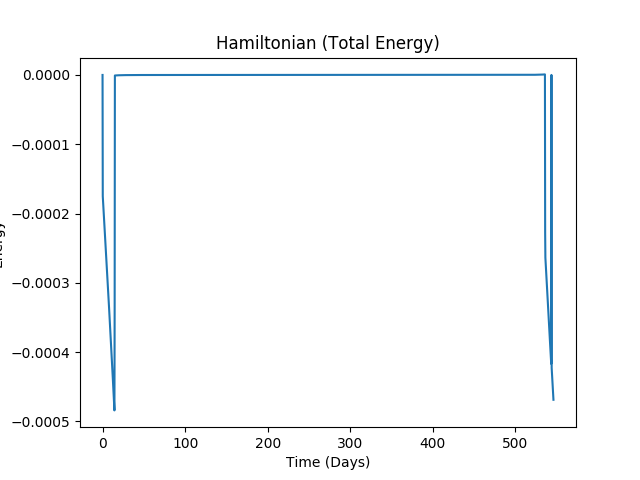
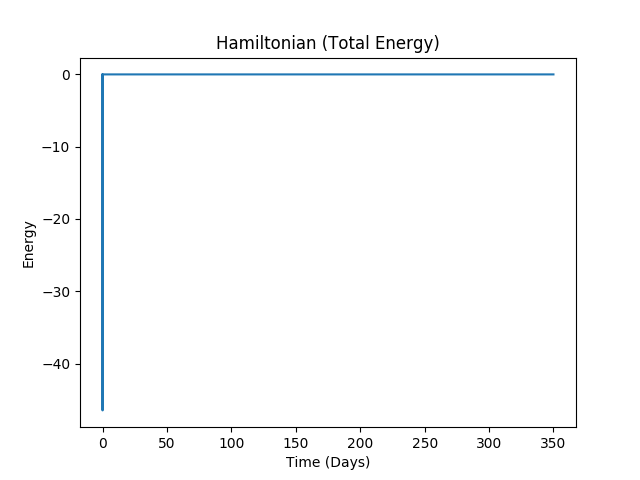
Finally have primary switching working properly.

diff --git a/PythonCode/Main_KS.py b/PythonCode/Main_KS.py
@@ -1,51 +1,51 @@
 import numpy as np
 import math
 import matplotlib.pyplot as plt
-## import orbital.elements
-#import time
 import datetime
 
+from Constants import *
 from rkf45 import *
 from Dynamics import dynamics, hamiltonian
-from Dynamics_KS import dynamics_ks, ks_init, ks2cart
+from Dynamics_KS import dynamics_ks, ks_init, ks2cart, setUnits, inSoI
 
 print("Started: " + datetime.datetime.now().strftime("%H:%M:%S.%f"))
 
-# Physical Constants
-mu_e = 3.986e14 # m^3/s^2, Earth's gravitational parameter
-mu_s = 1.327e20 # m^3/s^2, Sol's gravitational parameter
-R_e = 6378137 # m, Earth's equatorial radius
-m_e = 5.97237e24# kg, Earth's mass
-m_sc = 1000 # kg, Spacecraft's mass
-smaEarth = 1.49598023e11 # m, Earth's semimajor axis
+# Initial Conditions
+r_e0 = np.array([smaEarth, 0, 0]) # km, Earth's average orbital
+# distance, along the vernal
+                                   # equinox
+v_e0 = np.array([0, smaEarth*wEarth, 0]) # km/s, Earth's average orbital velocity
+                             # in the y inertial direction
 
-# Unit scaling here as well.
-mu_e = mu_e/(R_e**3)
-mu_s = mu_s/(R_e**3)
-smaEarth = smaEarth/R_e
-wEarth = math.sqrt((mu_e + mu_s)/(smaEarth**3))
-R_SoI = (mu_e/mu_s)**(2.0/5.0)*smaEarth
+r_sc0 = r_e0 + np.array([6.5e3, 0, 0]) # km, Spacecraft's initial
+                                       # position added to Earth's
+v_sc0 = v_e0 + np.array([1, 4.0, 0]) # km/s, Spacecraft's initial
+                                       # velocity added to Earth's
+
+# Unit Conversion
+DU = np.linalg.norm(r_sc0)
+TU = math.sqrt(mu_e/(DU**3))
+setUnits(DU, TU)
 
 # Simulation Conditions
 debug = False
-secondsPerDay = 3600*24
 
 if debug:
-    ## This is an approximation to the fictitious time (rather than
-    ## add the expense of an event function
     simLength = 400*secondsPerDay
-    simLength = simLength/smaEarth
-    dt = 10.5
+    dt = 900
+    simLength = simLength/DU
+    dt = dt/DU
 else:
-    simLength = 546*secondsPerDay
-    simLength = simLength/smaEarth
-    dt = 1
+    simLength = 350*secondsPerDay
+    dt = 300
+    simLength = simLength/DU
+    dt = dt/DU
     
 N= int(math.floor(simLength/dt))
 simTime = np.linspace(0,simLength, N)
 flag = 1
 relerr = 1e-8
-abserr = 1e-3
+abserr = 1e-6
 
 # Sim output storage
 y_out = np.zeros((N,10))
@@ -53,54 +53,27 @@ x_out = np.zeros((N,3))
 e_out = np.zeros((N,3))
 H_out = np.zeros((N,))
 
-print(smaEarth*wEarth*R_e)
-# Initial Conditions
-r_e0 = np.array([1.4960e11, 0, 0]) # m, Earth's average orbital
-                                   # distance, along the vernal
-                                   # equinox
-v_e0 = np.array([0, 3e4, 0]) # m/s, Earth's average orbital velocity
-                             # in the y inertial direction
-
-r_sc0 = r_e0 + np.array([6.7e6, 0, 0]) # m, Spacecraft's initial
-                                       # position added to Earth's
-v_sc0 = v_e0 + np.array([-1e3, 7.0e3, 0]) # m/s, Spacecraft's initial
-                                       # velocity added to Earth's
-
-# Unit Conversion
-# Meters was a very clearly poor choice for distance units
-# Transform instead to units of Earth Equatorial Radius
-# This is a compromise between S/C and Earth dynamics
-r_e0 = r_e0/R_e
-v_e0 = v_e0/R_e
-r_sc0 = r_sc0/R_e
-v_sc0 = v_sc0/R_e
-print(v_sc0)
+r_sc0 = r_sc0/DU
+v_sc0 = v_sc0/(DU*TU)
 
 x_out[0,:] = r_sc0
-e_out[0,:] = smaEarth*np.array([1,0,0])
+e_out[0,:] = (smaEarth/DU)*np.array([1,0,0])
 
 u0 = ks_init(r_sc0, v_sc0, 0, mu_s, 0)
 
-# Thus we have a 10x1 initial state vector
-y0 = np.append(r_e0, v_e0)
-y0 = np.append(y0, r_sc0)
-y0 = np.append(y0, v_sc0)
-
-#u0 = np.append(u0, e_out[0,:])
 y_out[0,:] = u0
 yp = np.zeros((10,))
 Hrel = np.zeros((N,))
 
 for i,x in enumerate(simTime):
     if i==0:
-        print("Initializing Done.")
         H_out[i] = u0[8]
         Hrel[i] = 0
     else:
         y = np.reshape(y_out[i-1,:],(10,))
         t0 = simTime[i-1]
-
-        y, yp, t, flag = r8_rkf45( dynamics_ks, 10, y, yp, t0, x, relerr, abserr, flag)
+        y, yp, t, flag = r8_rkf45( dynamics_ks, 10,
+                                   y, yp, t0, x, relerr, abserr, flag)
         y_out[i,:] = y
         H_out[i] = y[8]
         Hrel[i] = (H_out[i] - H_out[i-1])/H_out[i]
@@ -111,8 +84,44 @@ for i,x in enumerate(simTime):
         p, pdot = ks2cart(y)
         x_out[i,:] = p
         t = y[9]*np.linalg.norm(y[0:4])
-        lonEarth = wEarth*t
-        e_out[i,:] = smaEarth*np.array([math.cos(lonEarth), math.sin(lonEarth), 0])
+        lonEarth = wEarth*t/TU
+        e_out[i,:] = (smaEarth/DU)*np.array([math.cos(lonEarth),
+                                             math.sin(lonEarth), 0])
+        ve = (smaEarth/(DU*TU))*wEarth*np.array([-math.sin(lonEarth),
+                                            math.cos(lonEarth), 0])
+
+        #print(np.linalg.norm(ve))
+        
+        if not inSoI:
+            r_sc_e = p - e_out[i,:]
+        else:
+            r_sc_e = p
+        
+        if np.linalg.norm(r_sc_e) <= R_SoI/DU:
+            # We're in Earth's SoI
+            if not inSoI:
+                print("Capturing")
+                inSoI = True
+                r_sc = r_sc_e
+                print(np.linalg.norm(r_sc))
+                v_sc = pdot - ve
+                y = ks_init(r_sc, v_sc, y[9], mu_e, 0)
+                y_out[i, :] = y
+                p, pdot = ks2cart(y)
+                yp = dynamics_ks(x, y)
+
+            x_out[i, :] = p + e_out[i, :]
+        else:
+            # We're outside of it, back to heliocentric
+            if inSoI:
+                print("Releasing")
+                inSoI = False
+                r_sc = p + e_out[i, :]
+                print(np.linalg.norm(r_sc))
+                v_sc = pdot + ve
+                y = ks_init(r_sc, v_sc, y[9], mu_s, 0)
+                yp = dynamics_ks(x, y)
+                y_out[i, :] = y
 
 print("Finished: " + datetime.datetime.now().strftime("%H:%M:%S.%f"))
 
@@ -120,7 +129,7 @@ fig, ax = plt.subplots()
 ax.plot(e_out[:,0], e_out[:,1])
 ax.plot(x_out[:,0], x_out[:,1])
 ax.plot([0.0],[0.0],'r+')
-ax.set(xlabel='X - Earth Radii',ylabel='Y - Earth Radii',
+ax.set(xlabel='X - AU',ylabel='Y - AU',
        title='Planar Motion of Two Bodies')
 ax.legend(['Earth','Spacecraft','Sol'])
 fig.savefig('PlanarPath.png')

diff --git a/PythonCode/Dynamics_KS.py b/PythonCode/Dynamics_KS.py
@@ -1,25 +1,26 @@
 import numpy as np
 import math
 
-mu_e = 3.986e14 # m^3/s^2, Earth's gravitational parameter
-mu_s = 1.327e20 # m^3/s^2, Sol's gravitational parameter
-R_e = 6378137 # m, Earth's equatorial radius
-m_e = 5.97237e24# kg, Earth's mass
-m_sc = 1000 # kg, Spacecraft's mass
-smaEarth = 1.49598023e11 # m, Earth's semimajor axis
+from Constants import *
 
-# Unit scaling here as well.
-mu_e = mu_e/(R_e**3)
-mu_s = mu_s/(R_e**3)
-smaEarth = smaEarth/R_e
-wEarth = math.sqrt((mu_e + mu_s)/(smaEarth**3))
-R_SoI = 50*(mu_e/mu_s)**(2.0/5.0)*smaEarth
+DU = 1.0
+TU = 1.0
+inSoI = False
+def setUnits(d, t):
+    global DU, TU
 
+    DU = d
+    TU = t
+    
 def dynamics_ks(t, y):
+    global inSoI
     # State Vector
     # u[0:4] -> u1-u4, KS-position
     # u[4:8] -> u1'-u4', KS-velocity
-    # u[8]   -> h (-total energy) = (-Keplerian energy) + (-potential)
+    
+    ## u[8] -> h (-total energy) = (-Keplerian energy)
+    ## + (-potential)
+
     # u[9]   -> t, physical time
 
     # Initialize the output
@@ -27,33 +28,32 @@ def dynamics_ks(t, y):
     
     # Radius of position and time
     x, xdot = ks2cart(y)
-    # print(x)
-    # print(xdot)
     r = np.linalg.norm(y[0:4])
     t = y[9]
 
     # Perturbing potential
     rVpot = 0.0
     drVdu = 0.0
-    lonEarth = wEarth*t
+    lonEarth = wEarth*t/TU
     
     # Perturbing Accelerations
     P = np.zeros((4,))
-    rEarth = (smaEarth)*np.array([math.cos(lonEarth), math.sin(lonEarth), 0])
+    rEarth = (smaEarth/DU)*np.array([math.cos(lonEarth),
+                                     math.sin(lonEarth), 0])
     r_sc_e = np.linalg.norm(rEarth - (x))
 
-    if r_sc_e <= R_SoI:
-        inSoI = True
-    else:
-        inSoI = False
-    
+    muFactor = 1/((TU**2)*(DU**3))
     if inSoI:
         # Third body is the sun
-        r2 = -(smaEarth)*np.array([math.cos(lonEarth), math.sin(lonEarth), 0])
-        P[0:3] = accel3B(x, r2, mu_e, mu_s)
+        ## print("Third body is the sun")
+        r2 = -(smaEarth/DU)*np.array([math.cos(lonEarth),
+                                      math.sin(lonEarth), 0])
+        P[0:3] = accel3B(x, r2, mu_e*muFactor, mu_s*muFactor)
     else:
-        r2 = (smaEarth)*np.array([math.cos(lonEarth), math.sin(lonEarth), 0])
-        P[0:3] = accel3B(x, r2, mu_s, mu_e)
+        ## print("Third body is the Earth")
+        r2 = (smaEarth/DU)*np.array([math.cos(lonEarth),
+                                     math.sin(lonEarth), 0])
+        P[0:3] = accel3B(x, r2, mu_s*muFactor, mu_e*muFactor)
 
     L = ksmat(y)
 
@@ -68,45 +68,13 @@ def dynamics_ks(t, y):
     y_dot[8] = -2*np.dot(y[4:8], np.dot(np.transpose(L),P))
     y_dot[9] = r
 
-    # vEarth = (smaEarth*wEarth)*np.array([-math.sin(lonEarth), math.cos(lonEarth), 0])
-    # y_dot[10:13] = vEarth
-
     return y_dot
-
-def hamiltonian(y):
-    # This function calculates the value of the Hamiltonian of the
-    # system at a given state.
-
-    # Preliminaries
-    r_e = y[0:3]
-    r_sc = y[6:9]
-    v_e = y[3:6]
-    v_sc = y[9:12]
-    r_sc_e = r_sc - r_e
-    
-    r_sc_mag = np.linalg.norm(r_sc)
-    r_sc_e_mag = np.linalg.norm(r_sc_e)
-    r_e_mag = np.linalg.norm(r_e)
-    v_e_mag = np.linalg.norm(v_e)
-    v_sc_mag = np.linalg.norm(v_sc)
-    #v_sc_e_mag = np.linalg.norm(v_sc_e)
-
-    T_e = (m_e/2.0)*(v_e_mag**2)
-    T_sc = (m_sc/2.0)*(v_sc_mag**2)
-
-    U_e = -mu_s*m_e/r_e_mag
-    U_sc = -mu_s*m_sc/r_sc_mag
-    U_sc_e = -mu_e*m_sc/r_sc_e_mag
-
-    hamiltonian = T_e + T_sc + U_e + U_sc + U_sc_e
-
-    return hamiltonian
 
 def accel3B(r3, r2, mu1, mu2):
     r23 = (r3 - r2)
     r2N = np.linalg.norm(r2)
     r23N = np.linalg.norm(r23)
-    accel = -(mu2)*((r23/(r23N**3)))
+    accel = -(mu2/mu1)*((r23/(r23N**3)) + (r2/(r2N**3)))
 
     return accel
 
@@ -125,7 +93,7 @@ def ks2cart(u):
     x[0] = u[0]**2 - u[1]**2 - u[2]**2 + u[3]**2
     x[1] = 2*(u[0]*u[1] - u[2]*u[3])
     x[2] = 2*(u[0]*u[2] + u[1]*u[3])
-    r = np.linalg.norm(u[0:4])
+    r = np.linalg.norm(u[0:4])**2
 
     xdot[0] = 2*(u[0]*u[4] - u[1]*u[5] - u[2]*u[6] + u[3]*u[7])/r
     xdot[1] = 2*(u[1]*u[4] + u[0]*u[5] - u[3]*u[6] - u[2]*u[7])/r
@@ -137,7 +105,7 @@ def ks_init(r0, v0, t0, mu, V):
     u0 = np.zeros((10,))
 
     r = np.linalg.norm(r0)
-    Ksq = mu
+    Ksq = mu/((DU**3)*(TU**2))
 
     if r0[0] >= 0.0:
         u0[0] = 0.0

diff --git a/PythonCode/Constants.py b/PythonCode/Constants.py
@@ -1,0 +1,10 @@
+import math
+
+# Physical Constants
+mu_e = 3.98601e5 # km^3/s^2, Earth's gravitational parameter
+mu_s = 1.32712428e11 # km^3/s^2, Sol's gravitational parameter
+R_e = 6.37122E3 # km, Earth's equatorial radius
+smaEarth = 1.49598023e8 # m, Earth's semimajor axis
+wEarth = math.sqrt((mu_e + mu_s)/(smaEarth**3))
+R_SoI = (mu_e/mu_s)**(2.0/5.0)*smaEarth
+secondsPerDay = 86400
